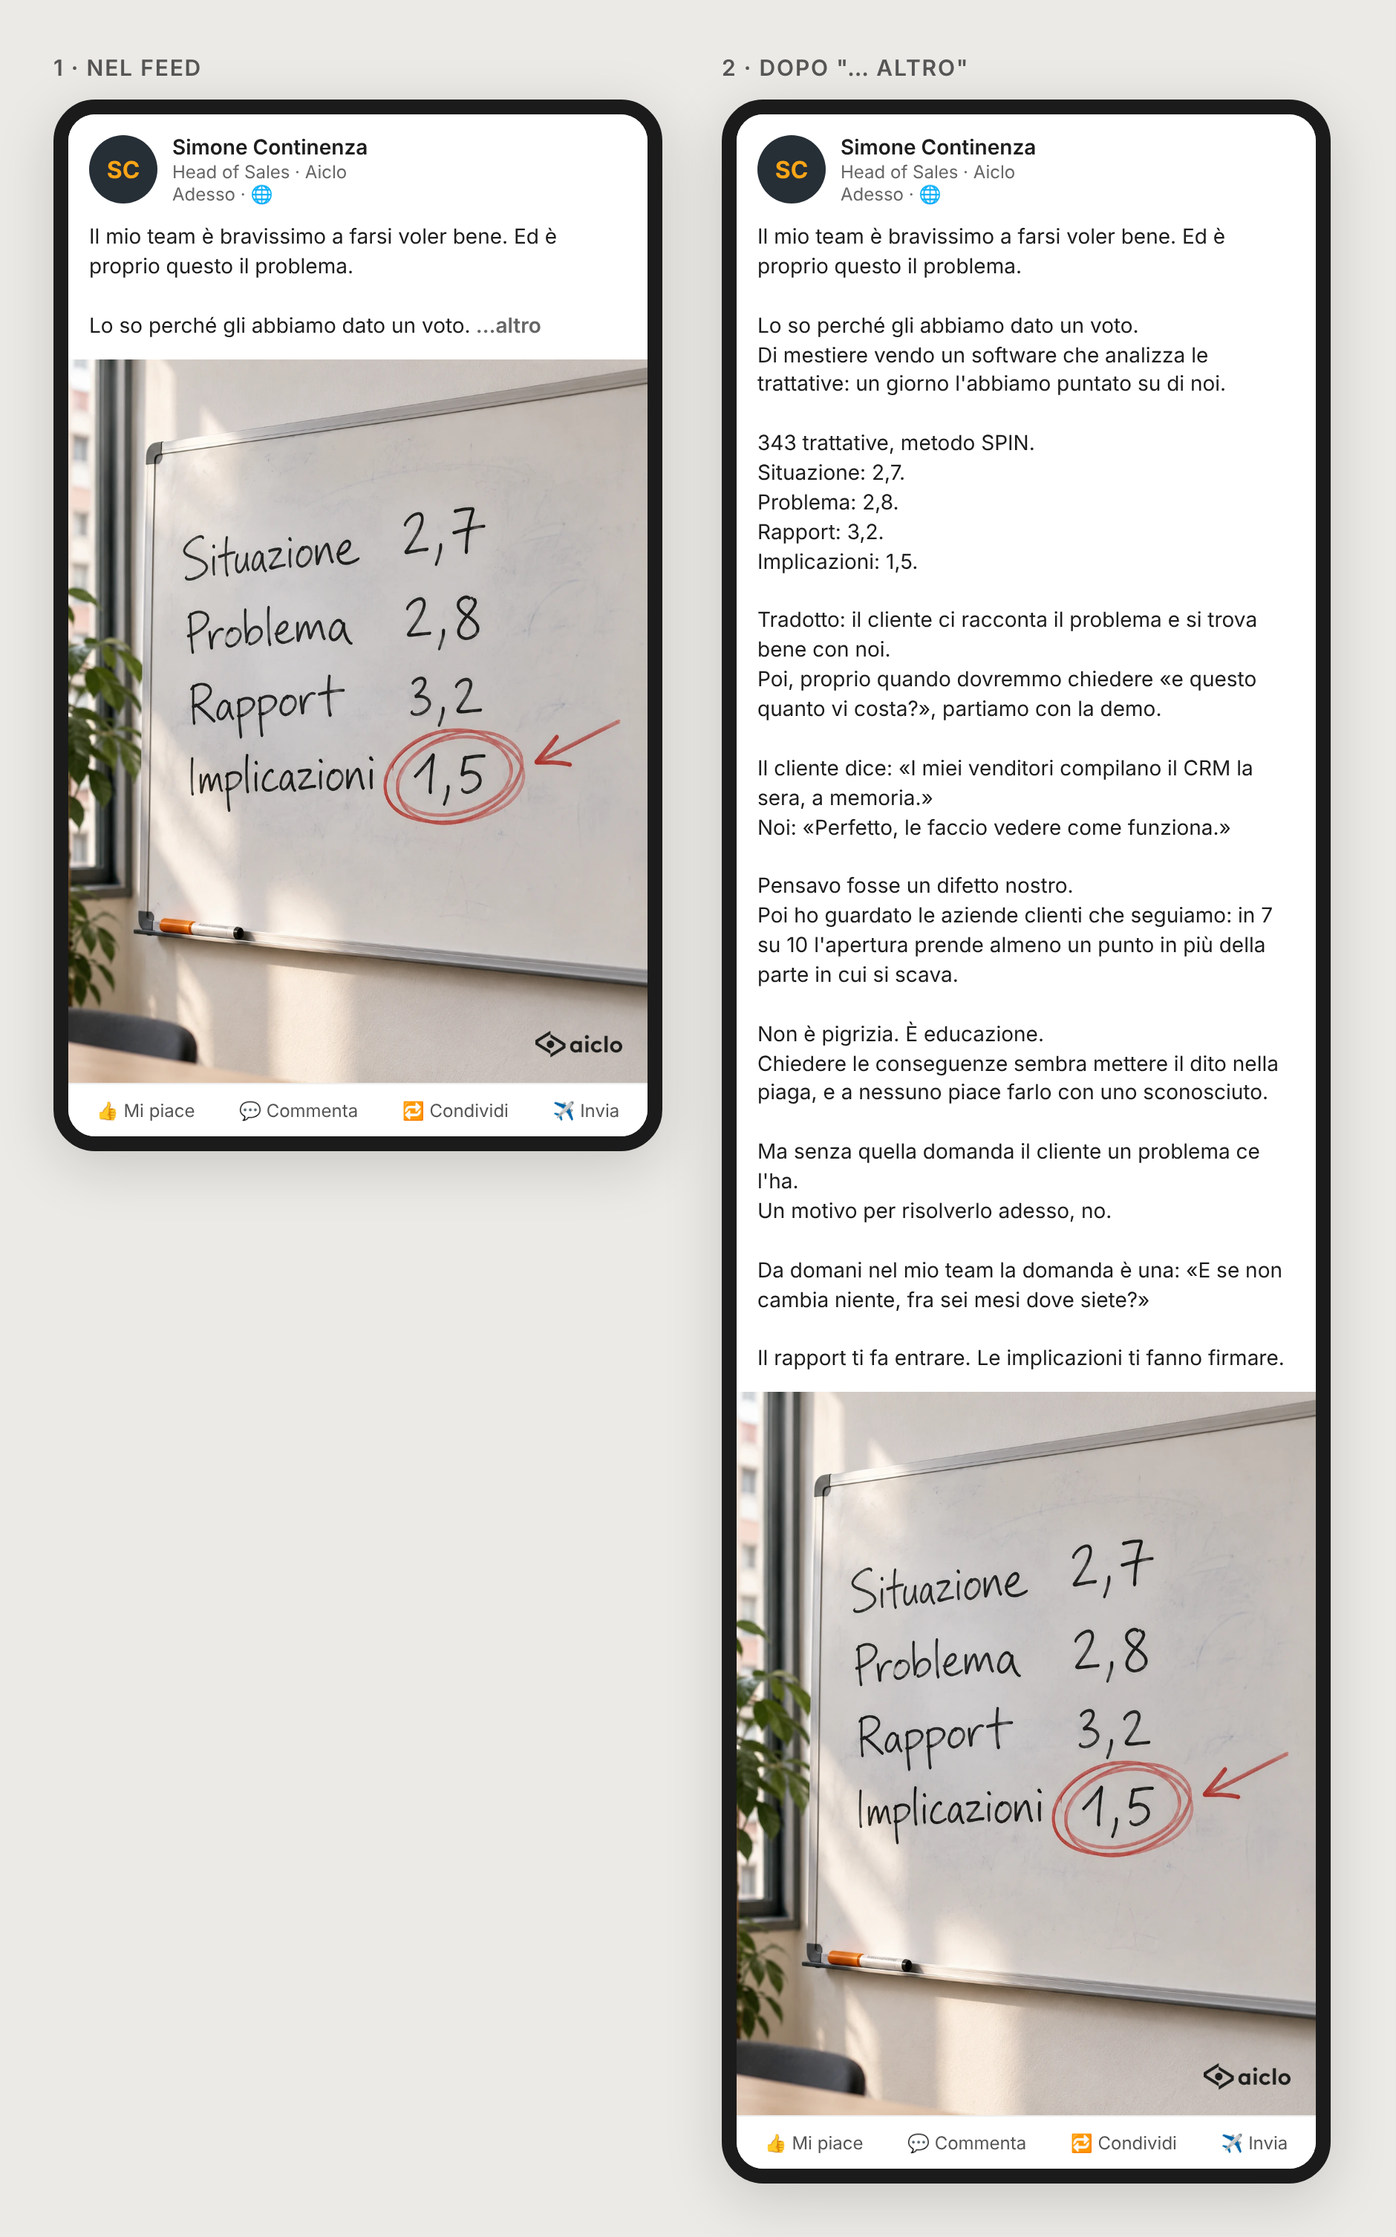
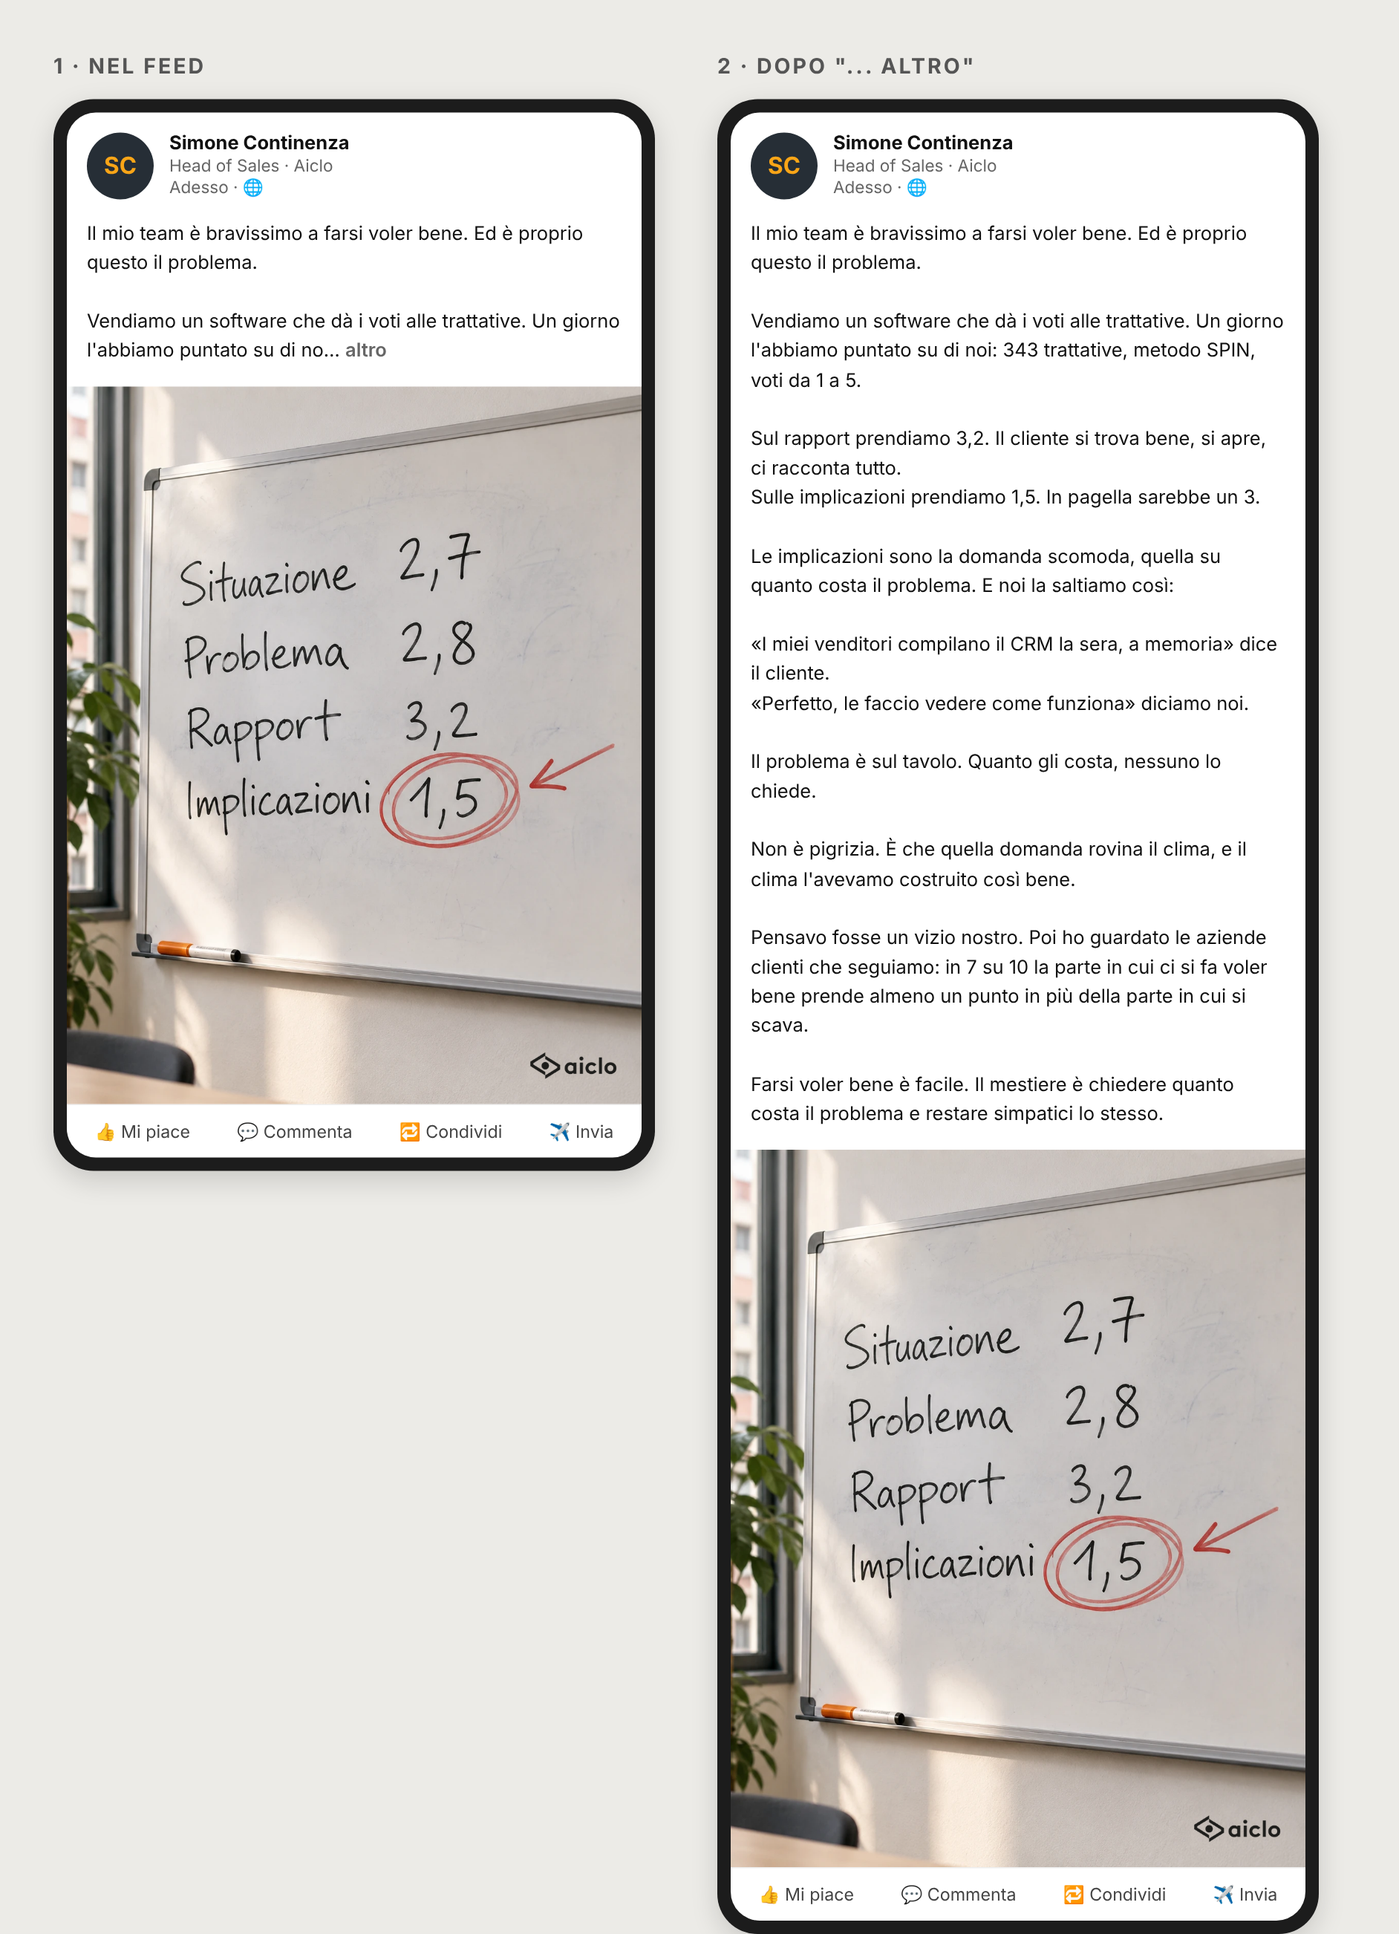
Post di Simone ed esempi riscritti con lo stile della guida 09
Claude-Session: https://claude.ai/code/session_01BvwXaiV5KwnJCQtWAkwjF6

Changed region(s): [[0.0309, 0.0311, 0.9564, 1.0]]

diff --git a/post/simone-continenza/2026-11-09-implicazioni-1-5.md b/post/simone-continenza/2026-11-09-implicazioni-1-5.md
@@ -8,38 +8,32 @@
 2. **Scena:** Il cliente ci racconta il problema. Noi annuiamo. E passiamo subito alla demo.
 3. **Ribaltamento:** Il mio team è bravissimo a farsi voler bene. Ed è proprio questo il problema.
 
-Scelto il **n. 3**: è un complimento che diventa un'accusa, e la curiosità ("perché sarebbe un problema?") porta al "…altro". L'accusa è al team di Simone, non a chi legge. Il numero 1,5 arriva subito dopo, come prova.
+Scelto il **n. 3**: è un complimento che diventa un'accusa, e la curiosità ("perché sarebbe un problema?") porta al "…altro". L'accusa è al team di Simone, non a chi legge.
+
+**Anello aperto:** "perché farsi voler bene sarebbe un problema?". Si chiude solo nell'ultima riga.
+
+> **Versione 2**, riscritta con `guide/09-stile-copy.md`. La versione 1 (220 parole, con i quattro voti in fila e la domanda da usare "da domani") è nella cronologia git.
 
 ## Post
 Il mio team è bravissimo a farsi voler bene. Ed è proprio questo il problema.
 
-Lo so perché gli abbiamo dato un voto.
-Di mestiere vendo un software che analizza le trattative: un giorno l'abbiamo puntato su di noi.
+Vendiamo un software che dà i voti alle trattative. Un giorno l'abbiamo puntato su di noi: 343 trattative, metodo SPIN, voti da 1 a 5.
 
-343 trattative, metodo SPIN.
-Situazione: 2,7.
-Problema: 2,8.
-Rapport: 3,2.
-Implicazioni: 1,5.
+Sul rapport prendiamo 3,2. Il cliente si trova bene, si apre, ci racconta tutto.
+Sulle implicazioni prendiamo 1,5. In pagella sarebbe un 3.
 
-Tradotto: il cliente ci racconta il problema e si trova bene con noi.
-Poi, proprio quando dovremmo chiedere «e questo quanto vi costa?», partiamo con la demo.
+Le implicazioni sono la domanda scomoda, quella su quanto costa il problema. E noi la saltiamo così:
 
-Il cliente dice: «I miei venditori compilano il CRM la sera, a memoria.»
-Noi: «Perfetto, le faccio vedere come funziona.»
+«I miei venditori compilano il CRM la sera, a memoria» dice il cliente.
+«Perfetto, le faccio vedere come funziona» diciamo noi.
 
-Pensavo fosse un difetto nostro.
-Poi ho guardato le aziende clienti che seguiamo: in 7 su 10 l'apertura prende almeno un punto in più della parte in cui si scava.
+Il problema è sul tavolo. Quanto gli costa, nessuno lo chiede.
 
-Non è pigrizia. È educazione.
-Chiedere le conseguenze sembra mettere il dito nella piaga, e a nessuno piace farlo con uno sconosciuto.
+Non è pigrizia. È che quella domanda rovina il clima, e il clima l'avevamo costruito così bene.
 
-Ma senza quella domanda il cliente un problema ce l'ha.
-Un motivo per risolverlo adesso, no.
+Pensavo fosse un vizio nostro. Poi ho guardato le aziende clienti che seguiamo: in 7 su 10 la parte in cui ci si fa voler bene prende almeno un punto in più della parte in cui si scava.
 
-Da domani nel mio team la domanda è una: «E se non cambia niente, fra sei mesi dove siete?»
-
-Il rapport ti fa entrare. Le implicazioni ti fanno firmare.
+Farsi voler bene è facile. Il mestiere è chiedere quanto costa il problema e restare simpatici lo stesso.
 
 ## Visual
 Tipo: scritto a mano (Template K), generata.
@@ -74,17 +68,20 @@ Anomalia: tre voti "normali" e un 1,5 cerchiato in rosso, come alla lavagna di s
 Venditori: qual è la domanda che sapete di dover fare in trattativa e che saltate quasi sempre? La mia era quella sulle conseguenze.
 
 ## Checklist
-**17/17**
+**19/19**
 - ✅ Prima riga di 15 parole, un'accusa (rivolta al proprio team); funziona da sola.
-- ✅ Una sola idea: saltiamo la domanda sulle conseguenze.
+- ✅ Anello aperto ("perché sarebbe un problema?") chiuso solo nell'ultima riga.
+- ✅ Una sola idea: saltiamo la domanda su quanto costa il problema, per non rovinare il clima.
 - ✅ Nemico: l'abitudine di passare alla demo appena il cliente racconta il problema.
-- ✅ Numeri reali e approvati (righe 3, 4 e 9 di `dati/insight-trattative.md`), uno ogni 50-80 parole.
-- ✅ Nessuna testimonianza inventata; la battuta sul CRM è una situazione tipo, nessun cliente riconoscibile.
+- ✅ Numeri reali e approvati (righe 3, 4 e 9 di `dati/insight-trattative.md`); l'1,5 è tradotto in pagella (1,5/5 = 3/10).
+- ✅ Scena con due battute tra « » (situazione tipo, nessun cliente riconoscibile).
 - ✅ Target venditore chiaro dalle prime righe; leva: le provvigioni lasciate sul tavolo.
-- ✅ Circa 220 parole, paragrafi brevi, zero emoji, nessuna parola vietata, nessun link.
-- ✅ Chiusura in una frase, citabile.
-- ✅ Aiclo non nominato (solo "un software che analizza le trattative").
-- ✅ L'errore è nostro, non del lettore. Due contrapposizioni in tutto ("Non è pigrizia. È educazione." e la chiusura).
+- ✅ Circa 170 parole, nessuna lista, nessuna morale spiegata, nessun "da domani".
+- ✅ Zero emoji, nessuna parola vietata, nessun trattino lungo, nessun link.
+- ✅ Chiusura in una frase, citabile, che risponde all'apertura.
+- ✅ Aiclo non nominato (solo "un software che dà i voti alle trattative").
+- ✅ L'errore è nostro, non del lettore. Due contrapposizioni in tutto.
+- ✅ I 4 test del file `09`.
 - ✅ Voce di Simone: da campo, da collega, ironia asciutta.
 
-Nota: i numeri delle righe 3-4 sono del team commerciale di Aiclo, quelli della riga 9 delle aziende clienti, e il post li cita così. Il punteggio personale di Simone non è usato: se vuole renderlo ancora più forte, può aggiungere il suo, che però va deciso da lui.
+Nota: i numeri delle righe 3-4 sono del team commerciale di Aiclo, quelli della riga 9 delle aziende clienti, e il post li cita così. La lavagna della visual mostra tutti e quattro i voti SPIN: il testo ne cita due, l'immagine aggiunge il resto.

diff --git a/esempi/02-ci-devo-pensare.md b/esempi/02-ci-devo-pensare.md
@@ -5,32 +5,30 @@
 > ⚠ Esempio illustrativo: la scena è costruita per mostrare la struttura. Nei post veri si usa un episodio reale preso da `dati/episodi-trattative.md`.
 
 ## Hook alternativi
-1. Minuto 41. Il cliente dice: "Mi lasci il preventivo, ci penso". La trattativa finisce lì.
+1. Minuto 41. Il cliente dice: «Mi lasci il preventivo, ci penso.»
 2. "Ci devo pensare" non è un'obiezione. È un no detto con educazione.
 3. La trattativa non l'hai persa quando il cliente ha detto "ci penso". L'hai persa 30 minuti prima.
 
+Scelto il **n. 1**: è una scena che ogni venditore ha vissuto. Il n. 3 è più forte come idea, ma dà subito la risposta; qui diventa la chiusura.
+
+**Anello aperto:** "quando si è persa davvero questa trattativa?". Si chiude nell'ultima riga.
+
 ## Post
-Minuto 41. Il cliente dice: "Mi lasci il preventivo, ci penso".
+Minuto 41. Il cliente dice: «Mi lasci il preventivo, ci penso.»
 
-Il venditore risponde: "Certo, nessun problema. La richiamo giovedì".
+Il venditore sorride: «Certo, nessun problema. La richiamo giovedì.»
 
-Giovedì il cliente non risponde. Né il venerdì. Né mai.
+Giovedì il cliente non risponde. Venerdì nemmeno. Dopo tre mesi, nel CRM la trattativa diventa «persa per il prezzo».
 
-Nel CRM la trattativa resta "in valutazione" per tre mesi, poi diventa "persa per il prezzo".
+Il prezzo non c'entra. Riascoltala dall'inizio.
 
-Il prezzo però non c'entra.
+Minuto 12. Il cliente dice: «Poi ne parlo con il mio socio.» Il venditore annuisce e va avanti con la presentazione. Nessuno chiede chi è il socio, cosa gli interessa, se può esserci la prossima volta.
 
-"Ci devo pensare" quasi mai significa che il cliente deve pensarci. Di solito vuol dire una di queste tre cose:
+Da lì in poi il venditore sta convincendo la persona sbagliata. Per mezz'ora.
 
-1. Non ho capito perché dovrei spendere questi soldi adesso.
-2. Non sono io che decido e non ho il coraggio di dirtelo.
-3. C'è qualcosa che non mi convince e non te lo dirò.
+«Ci devo pensare» è quasi sempre questo: la risposta educata a una domanda che non abbiamo fatto.
 
-Tutte e tre si potevano scoprire prima: con una domanda sul perché proprio adesso, con una su chi altro decide, con una su cosa lo frena.
-
-Quando arriva il "ci penso" è tardi. Ma non è finita: chiedi "Su cosa in particolare?" e stai zitto. Il silenzio dopo quella domanda vale più di qualsiasi tecnica di chiusura.
-
-"Ci devo pensare" è il modo più gentile che ha un cliente per dirti che hai saltato un passaggio.
+La trattativa è finita al minuto 12. Al minuto 41 ce l'hanno solo detto.
 
 ## Visual
 Tipo: card trascrizione
@@ -48,7 +46,9 @@ Formato 4:5, 1080x1350.
 ```
 
 ## Primo commento (facoltativo)
+Se vi è già successo: la prossima volta che sentite «ci penso», chiedete «Su cosa in particolare?» e state zitti. Il silenzio dopo quella domanda vale più di qualsiasi tecnica di chiusura.
+
 Venditori: qual è la frase che i vostri clienti dicono più spesso prima di sparire?
 
 ## Checklist
-16/17. Manca un numero reale: con un dato vero da `dati/insight-trattative.md` (es. "in X trattative su 100 con 'ci penso'…") il post diventa più forte. → `[DATO DA INSERIRE]`
+**19/19**. Anello aperto chiuso nell'ultima riga. Scena con quattro battute tra « ». Storia costruita, anonima. Circa 150 parole: la lista dei "tre significati di ci penso" è sparita, ne resta uno solo raccontato dentro la storia (chi decide). Il consiglio pratico è passato nel primo commento. Nessun numero di Aiclo: con un dato vero da `dati/insight-trattative.md` (per esempio la riga 10, chi decide) il post diventa più forte. Aiclo non è nominato.

diff --git a/esempi/01-sindrome-del-promosso.md b/esempi/01-sindrome-del-promosso.md
@@ -5,30 +5,28 @@
 ## Hook alternativi
 1. Esiste una cosa che chiamo "la sindrome del promosso".
 2. Ti hanno promosso perché vendevi. Nessuno ti ha insegnato a far vendere gli altri.
-3. Mi hanno detto "da lunedì guidi tu il team". Nessuno mi ha detto come.
+3. Venerdì era il miglior venditore dell'azienda. Lunedì era un manager in difficoltà.
+
+Scelto il **n. 3**: è una scena con un salto che non si spiega (cosa è successo nel weekend?). Il n. 1 annuncia un concetto ma non apre nessuna domanda.
+
+**Anello aperto:** "come si passa da migliore a manager in difficoltà in un weekend?". Si chiude nell'ultima riga.
 
 ## Post
-Esiste una cosa che chiamo "la sindrome del promosso".
+Venerdì era il miglior venditore dell'azienda. Lunedì era un manager in difficoltà.
 
-Sei il miglior venditore dell'azienda. Chiudi più di tutti, i clienti ti chiedono per nome.
-Un giorno il titolare ti chiama: "Da lunedì guidi tu il team."
+In mezzo c'è una telefonata del titolare: «Da lunedì guidi tu il team.» Nessuna spiegazione, nessun corso. Solo le chiavi.
 
-Nessuno ti spiega come si fa.
-Così fai l'unica cosa che sai fare: vendere.
+Così fa l'unica cosa che sa fare benissimo: vendere.
+La trattativa difficile di Giulia? «Vengo io, faccio prima.» Quella di Paolo, pure.
+A fine mese i numeri tengono. Lui è in macchina fino alle nove di sera, e il team non ha imparato niente.
 
-Succedono tre cose.
+Quando prova a insegnare, racconta come faceva lui. Ma lui aveva un talento, non un metodo, e il talento a voce non passa.
 
-1. Le trattative difficili le chiudi tu, "perché faccio prima". Il team non impara.
-2. Il coaching lo fai a sensazione, raccontando come facevi tu. Ma tu avevi un talento, non un metodo. E il talento non si copia.
-3. Guardi i numeri a fine mese. Sai chi vende e chi no. Non sai perché.
+Io la chiamo la sindrome del promosso. La vedo spesso nelle aziende che incontriamo.
 
-Il risultato è un team che dipende da te, e tu che lavori il doppio di prima.
+Nessuno riesce ad ascoltare le trattative di dieci persone: in media un manager ne sente il 5%, una su venti. Allora insegna l'unica cosa che conosce bene: se stesso.
 
-Il problema non sei tu. Nessun manager riesce ad ascoltare le trattative di 10 persone: in media se ne ascolta il 5%. Sul resto si va a intuito.
-
-La via d'uscita è smettere di insegnare "come facevo io" e iniziare a guardare cosa fanno davvero, trattativa per trattativa, i venditori che chiudono. Poi trasformarlo in un metodo che anche gli altri possono seguire.
-
-Eri bravo a vendere. Adesso il tuo lavoro è diventare bravo a farlo fare agli altri.
+Non è diventato un cattivo manager. È rimasto un ottimo venditore, con un team intorno.
 
 ## Visual
 Tipo: metafora
@@ -45,4 +43,4 @@ Nessun testo nell'immagine. Formato 4:5, 1080x1350.
 Manager: quante trattative del tuo team hai ascoltato davvero questo mese? Numero vero, nessuno giudica.
 
 ## Checklist
-17/17. Il 5% è un claim pubblico di Aiclo. Aiclo non è nominato. Nessuno viene accusato: il problema è la situazione ("nessuno ti spiega come si fa"), non il manager.
+**19/19**. Anello aperto chiuso nell'ultima riga. Scena con tre battute tra « ». Il 5% è un claim pubblico di Aiclo, tradotto in "una su venti". Storia costruita, anonima. Circa 170 parole, nessuna lista: le "tre conseguenze" della S2 sono diventate tre momenti della storia (le trattative chiuse da lui, il talento che non passa, il 5%). Aiclo non è nominato. Nessuno viene accusato: il problema è la situazione ("nessuna spiegazione, nessun corso"), non il manager.

diff --git a/esempi/03-punto-cieco-95.md b/esempi/03-punto-cieco-95.md
@@ -4,27 +4,27 @@
 
 ## Hook alternativi
 1. Sai chi vende nel tuo team. Non sai perché.
-2. Un manager ascolta il 5% delle trattative del suo team. Sull'altro 95% decide a sensazione.
+2. Stesso listino, stessa zona, stesso CRM. Davide chiude il 31%. Luca il 12%.
 3. "Il venditore bravo nasce, non si fa." Ci ho creduto anch'io, per anni.
 
+Scelto il **n. 2**: il n. 1 è una bella frase ma dà subito la risposta. Il n. 2 è un enigma con due numeri: il lettore vuole sapere perché.
+
+**Anello aperto:** "perché Davide chiude il triplo di Luca?". Si chiude nelle ultime righe.
+
 ## Post
-Sai chi vende nel tuo team. Non sai perché.
+Stesso listino, stessa zona, stesso CRM. Davide chiude il 31%. Luca il 12%.
 
-Lo so, perché è la frase che sentiamo di più dai direttori commerciali.
+Il direttore commerciale ha la sua spiegazione: «Davide è nato per farlo.» L'ho sentita in tante sale riunioni, e per anni l'ho data anch'io.
 
-Il ragionamento di solito è questo: Marco chiude tanto perché è bravo. Luca chiude poco perché non ha la stoffa. Il venditore bravo nasce, non si fa.
+Facciamo due conti. Otto venditori, 40 trattative a settimana, 45 minuti l'una: sono 30 ore di conversazioni, ogni settimana. Nessun manager le ha. In media se ne ascolta il 5%, una trattativa su venti.
 
-Ci ho creduto anch'io. È una spiegazione comoda, ma non aiuta a capire cosa fare.
+Le altre diciannove sono un punto cieco. E la risposta su Davide è lì dentro.
 
-Facciamo due conti. Un team di 8 venditori fa circa 40 trattative a settimana. Se durano 45 minuti, sono 30 ore di conversazioni. Ogni settimana.
+Quando le ascolti in fila, la senti nei primi dieci minuti. Davide chiede «Chi altro deve dire sì?» prima di aprire il listino. Luca apre il listino al minuto 5, e passa il resto della trattativa a difendere il prezzo con la persona sbagliata.
 
-Nessun manager ha 30 ore a settimana per ascoltare. In media se ne ascolta il 5%. Tutto il resto è un punto cieco.
+Nessun talento. Una domanda.
 
-E in quel punto cieco c'è la risposta che cerchi: Marco fa la domanda giusta al minuto 10, Luca parla di prezzo al minuto 5, e Marco con chi deve decidere ci parla sempre, Luca quasi mai.
-
-Non è stoffa. È un metodo che Marco usa senza saperlo, e che nessuno ha mai messo per iscritto.
-
-Il venditore bravo non nasce. Fa cose che nessuno ha ancora guardato.
+«È nato per farlo» è quello che diciamo quando non abbiamo ascoltato.
 
 ## Visual
 Tipo: tipografica
@@ -40,4 +40,4 @@ spazio vuoto per il logo (nessun logo generato) in basso al centro. Formato 4:5,
 Se ti va di farlo davvero: prendi le ultime 3 trattative chiuse dal tuo top performer e le ultime 3 perse dal venditore che fa più fatica. Ascoltale una dopo l'altra. La differenza la senti nei primi 10 minuti.
 
 ## Checklist
-17/17. Il 5% e il 95% sono claim pubblici di Aiclo. L'autore critica una credenza che ha avuto anche lui, non chi legge. I numeri del calcolo (8 venditori, 40 trattative, 45 minuti) sono un esempio dichiarato, non un dato. Aiclo non è nominato.
+**19/19**. Anello aperto (perché Davide vende il triplo?) chiuso nelle ultime due righe. Il 5% è un claim pubblico di Aiclo, tradotto in "una su venti". Davide, Luca, il 31% e il 12% sono una storia costruita con numeri costruiti; anche il calcolo (8 venditori, 40 trattative, 45 minuti) è un esempio dichiarato. L'autore critica una credenza che ha avuto anche lui ("diciamo"), non chi legge. Circa 175 parole. Aiclo non è nominato.
